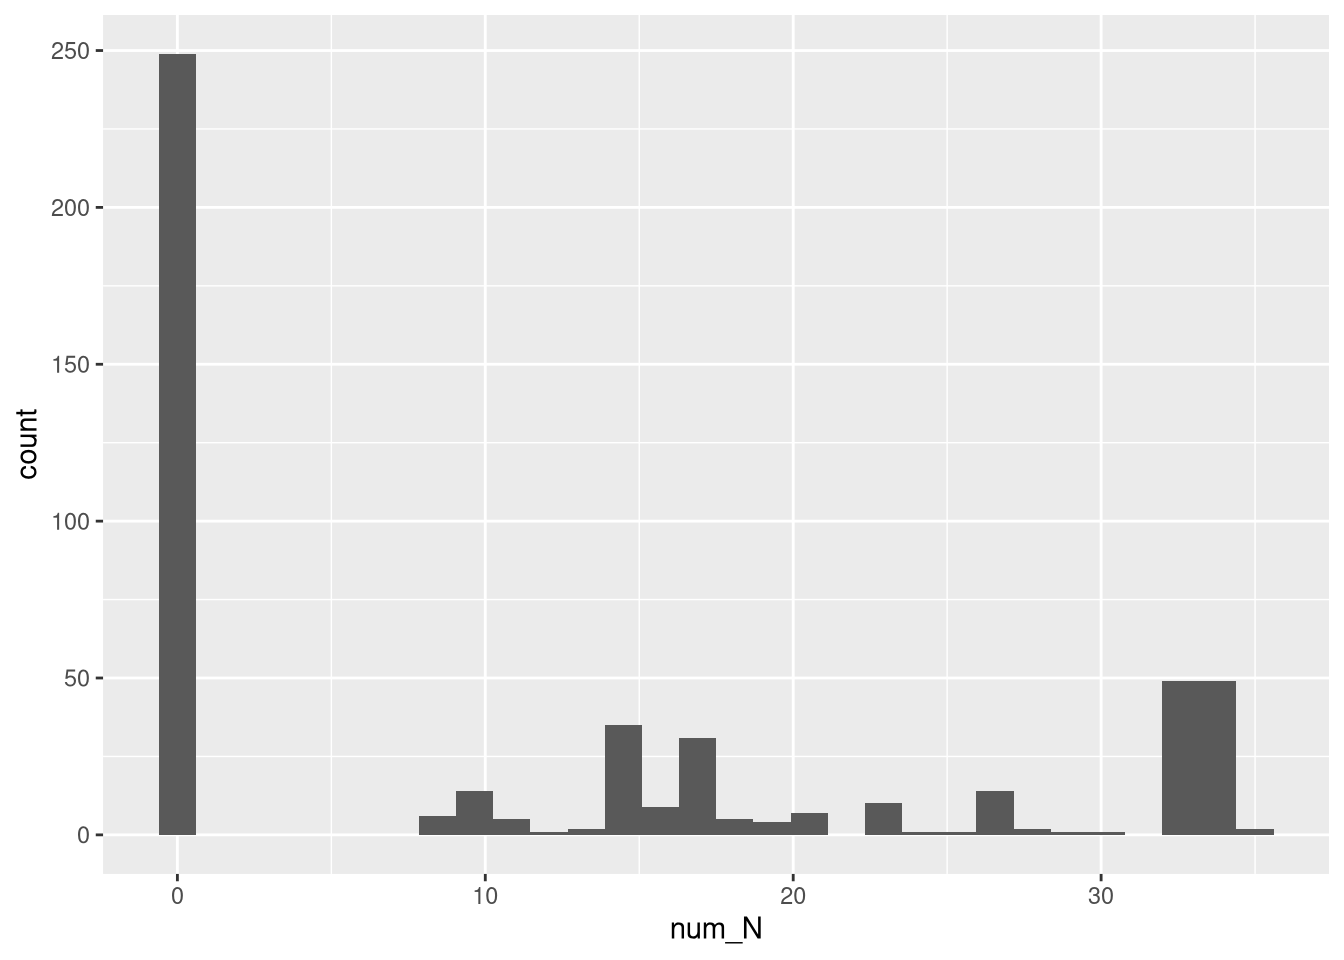
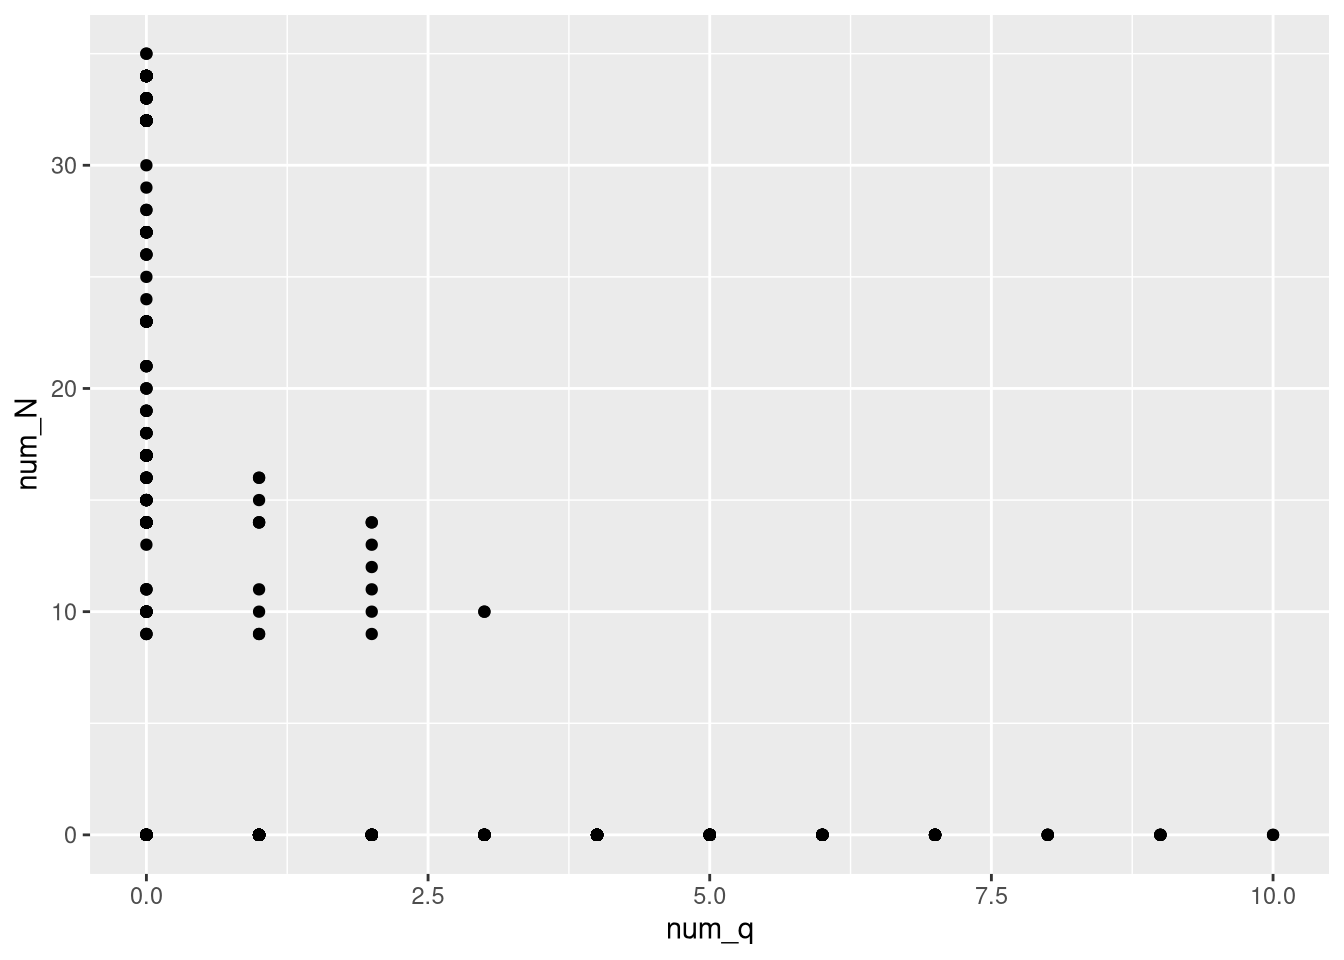
Build site.

diff --git a/docs/fastq.html b/docs/fastq.html
@@ -528,10 +528,10 @@ This reproducible <a href="http://rmarkdown.rstudio.com">R Markdown</a> analysis
 <div class="panel panel-default">
 <div class="panel-heading">
 <p class="panel-title">
-<a data-toggle="collapse" data-parent="#workflowr-checks" href="#strongRepositoryversionstrongahrefhttpsgithubcomCreRecombinasegeneprojectv1tree767f69bd0c10286bd85b7ec11f4a34469540d463targetblank767f69ba"> <span class="glyphicon glyphicon-ok text-success" aria-hidden="true"></span> <strong>Repository version:</strong> <a href="https://github.com/CreRecombinase/gene_project_v1/tree/767f69bd0c10286bd85b7ec11f4a34469540d463" target="_blank">767f69b</a> </a>
+<a data-toggle="collapse" data-parent="#workflowr-checks" href="#strongRepositoryversionstrongahrefhttpsgithubcomCreRecombinasegeneprojectv1tree5609e30c7525cd439c6e8b93939faf6dfed03070targetblank5609e30a"> <span class="glyphicon glyphicon-ok text-success" aria-hidden="true"></span> <strong>Repository version:</strong> <a href="https://github.com/CreRecombinase/gene_project_v1/tree/5609e30c7525cd439c6e8b93939faf6dfed03070" target="_blank">5609e30</a> </a>
 </p>
 </div>
[2 lines of base64/hex data omitted]
 <div class="panel-body">
 <p>
 Great! You are using Git for version control. Tracking code development and connecting the code version to the results is critical for reproducibility. The version displayed above was the version of the Git repository at the time these results were generated. <br><br> Note that you need to be careful to ensure that all relevant files for the analysis have been committed to Git prior to generating the results (you can use <code>wflow_publish</code> or <code>wflow_git_commit</code>). workflowr only checks the R Markdown file, but you know if there are other scripts or data files that it depends on. Below is the status of the Git repository when the results were generated:
@@ -541,6 +541,7 @@ Ignored files:
     Ignored:    .Rproj.user/
 
 Untracked files:
+    Untracked:  data/clean.fastq
     Untracked:  data/shell_data.tar.gz
 
 </code></pre>
@@ -580,6 +581,40 @@ Message
 </tr>
 </thead>
 <tbody>
+<tr>
+<td>
+Rmd
+</td>
+<td>
+<a href="https://github.com/CreRecombinase/gene_project_v1/blob/5609e30c7525cd439c6e8b93939faf6dfed03070/analysis/fastq.Rmd" target="_blank">5609e30</a>
+</td>
+<td>
+Nicholas Knoblauch
+</td>
+<td>
+2019-09-20
+</td>
+<td>
+wflow_publish(“analysis/fastq.Rmd”)
+</td>
+</tr>
+<tr>
+<td>
+html
+</td>
+<td>
+<a href="https://rawcdn.githack.com/CreRecombinase/gene_project_v1/093392017fa2fb710bca9135f09b549d122c700d/docs/fastq.html" target="_blank">0933920</a>
+</td>
+<td>
+Nicholas Knoblauch
+</td>
+<td>
+2019-09-20
+</td>
+<td>
+Build site.
+</td>
+</tr>
 <tr>
 <td>
 Rmd
@@ -675,23 +710,20 @@ wflow_publish(“analysis/fastq.Rmd”)
 <div id="introduction" class="section level2">
 <h2>Introduction</h2>
 <pre class="r"><code>library(tidyverse)</code></pre>
-<pre><code>── Attaching packages ─────── tidyverse 1.2.1.9000 ──</code></pre>
+<pre><code>── Attaching packages ────────────────── tidyverse 1.2.1.9000 ──</code></pre>
 <pre><code>✔ ggplot2 3.2.1     ✔ purrr   0.3.2
 ✔ tibble  2.1.3     ✔ dplyr   0.8.3
 ✔ tidyr   0.8.3     ✔ stringr 1.4.0
 ✔ readr   1.3.1     ✔ forcats 0.4.0</code></pre>
-<pre><code>── Conflicts ─────────────── tidyverse_conflicts() ──
+<pre><code>── Conflicts ────────────────────────── tidyverse_conflicts() ──
 ✖ dplyr::filter() masks stats::filter()
 ✖ dplyr::lag()    masks stats::lag()</code></pre>
-<pre class="r"><code>new_files &lt;- dir(&quot;data&quot;,
+<pre class="r"><code>new_files &lt;- dir(&quot;data/shell_data/untrimmed_fastq&quot;,
                  recursive=TRUE,
                  full.names = TRUE)
 (new_files)</code></pre>
-<pre><code>[1] &quot;data/README.md&quot;                                 
-[2] &quot;data/shell_data.tar.gz&quot;                         
-[3] &quot;data/shell_data/sra_metadata/SraRunTable.txt&quot;   
-[4] &quot;data/shell_data/untrimmed_fastq/SRR097977.fastq&quot;
-[5] &quot;data/shell_data/untrimmed_fastq/SRR098026.fastq&quot;</code></pre>
+<pre><code>[1] &quot;data/shell_data/untrimmed_fastq/SRR097977.fastq&quot;
+[2] &quot;data/shell_data/untrimmed_fastq/SRR098026.fastq&quot;</code></pre>
 <p>To subset data use the <code>[</code> operator. To find a string use the <code>grepl</code> function</p>
 <pre class="r"><code>fastq_files &lt;- new_files[grepl(&quot;fastq&quot;,new_files)]
 fastq_1 &lt;- read_lines(fastq_files[1])</code></pre>
@@ -766,8 +798,8 @@ filter(pivot_fastq_df,length!=36)</code></pre>
                       read=read_id,
                       field = fastq_fields,
                       lines = fastq_1)
-  fastq_df &lt;- fastq_df %&gt;% 
-    filter(field != &quot;metadata2&quot;)
+ # fastq_df &lt;- fastq_df %&gt;% 
+#    filter(field != &quot;metadata2&quot;)
   
   pivot_fastq_df &lt;- fastq_df %&gt;% 
     spread(key = field,value = lines)
@@ -790,40 +822,96 @@ filter(pivot_fastq_df,length!=36)</code></pre>
   
   return(pivot_fastq_df)
 }</code></pre>
-<pre class="r"><code>fastq_df_1 &lt;- read_fastq(fastq_files[1],name=&quot;SRR097977&quot;)
-fastq_df_2 &lt;- read_fastq(fastq_files[2],name=&quot;SRR098026&quot;)
+<pre class="r"><code>#fastq_df_1 &lt;- read_fastq(fastq_files[1],name=&quot;SRR097977&quot;)
+#fastq_df_2 &lt;- read_fastq(fastq_files[2],name=&quot;SRR098026&quot;)
 
-fastq_df &lt;- bind_rows(fastq_df_1,
-                      fastq_df_2)
+#fastq_df &lt;- bind_rows(fastq_df_1,
+                      #fastq_df_2)
 
-fastq_df &lt;- map_df(fastq_files,read_fastq)
+#fastq_df &lt;- map_df(fastq_files,read_fastq)
 fastq_df &lt;- map2_df(fastq_files,c(&quot;SRR097977&quot;,
                                   &quot;SRR098026&quot;),
                     read_fastq)
 
-fastq_df %&gt;% 
-  filter(grepl(&quot;N&quot;,sequence)) %&gt;% 
-  group_by(name) %&gt;% 
-  summarise(num_N=n())</code></pre>
-<pre><code># A tibble: 1 x 2
-  name      num_N
-  &lt;chr&gt;     &lt;int&gt;
-1 SRR098026   249</code></pre>
-<pre class="r"><code>fastq_df &lt;- fastq_df %&gt;% mutate(seq_list=str_split(sequence,pattern=&quot;&quot;))
-fastq_seq_list &lt;- fastq_df$seq_list
+new_fastq_df &lt;- fastq_df %&gt;% 
+  filter(!grepl(&quot;N&quot;,sequence)) %&gt;%
+  mutate(length=paste0(&quot;length=&quot;,length)) %&gt;% 
+  unite(col=&quot;metadata1&quot;,sr_id,tag,length) %&gt;% select(-name) %&gt;% 
+  gather(key = &quot;field&quot;,value= &quot;lines&quot;,metadata1,metadata2,score,sequence) %&gt;% 
+  mutate(field=factor(field,levels=c(&quot;metadata1&quot;,
+                                     &quot;sequence&quot;,
+                                     &quot;metadata2&quot;,
+                                     &quot;score&quot;))) %&gt;% 
+                      arrange(read,field)
+
+write_lines(new_fastq_df$lines,path = &quot;data/clean.fastq&quot;)
 
 
-count_N &lt;- function(x){
-  sum(x==&#39;N&#39;)
+#change this call to split quality score
+fastq_df &lt;- fastq_df %&gt;% 
+  mutate(
+  seq_list = str_split(
+    string = sequence,
+    pattern=&quot;&quot;
+    )
+  ,score_list = str_split(string = score,pattern = &quot;&quot;)
+  )
+
+
+
+#change this function to count the &#39;?&#39;
+count_char &lt;- function(x,char=&quot;?&quot;){
+  sum(x==char)
 }
 
-count_N(fastq_seq_list[[2]])</code></pre>
-<pre><code>[1] 0</code></pre>
-<pre class="r"><code>fastq_df &lt;- fastq_df %&gt;% mutate(num_N=map_int(seq_list,count_N))
+count_q &lt;- function(x){
+  sum(x==&quot;?&quot;)
+}
 
-ggplot(fastq_df,aes(x=num_N)) + geom_histogram()</code></pre>
-<pre><code>`stat_bin()` using `bins = 30`. Pick better value with `binwidth`.</code></pre>
+# and this one
+fastq_df &lt;- fastq_df %&gt;% mutate(
+  num_N = map_int(seq_list,count_char,char=&quot;N&quot;),
+  num_q = map_int(score_list,count_char,char=&quot;?&quot;))
+#change this line too
+ggplot(fastq_df,aes(x=num_q,y=num_N)) + geom_point()</code></pre>
 <p><img src="figure/fastq.Rmd/unnamed-chunk-7-1.png" width="672" style="display: block; margin: auto;" /></p>
+<p>
+<button type="button" class="btn btn-default btn-xs btn-workflowr btn-workflowr-fig" data-toggle="collapse" data-target="#fig-unnamed-chunk-7-1">
+Past versions of unnamed-chunk-7-1.png
+</button>
+</p>
+<div id="fig-unnamed-chunk-7-1" class="collapse">
+<div class="table-responsive">
+<table class="table table-condensed table-hover">
+<thead>
+<tr>
+<th>
+Version
+</th>
+<th>
+Author
+</th>
+<th>
+Date
+</th>
+</tr>
+</thead>
+<tbody>
+<tr>
+<td>
+<a href="https://github.com/CreRecombinase/gene_project_v1/blob/093392017fa2fb710bca9135f09b549d122c700d/docs/figure/fastq.Rmd/unnamed-chunk-7-1.png" target="_blank">0933920</a>
+</td>
+<td>
+Nicholas Knoblauch
+</td>
+<td>
+2019-09-20
+</td>
+</tr>
+</tbody>
+</table>
+</div>
+</div>
 <br>
 <p>
 <button type="button" class="btn btn-default btn-workflowr btn-workflowr-sessioninfo" data-toggle="collapse" data-target="#workflowr-sessioninfo" style="display: block;">
